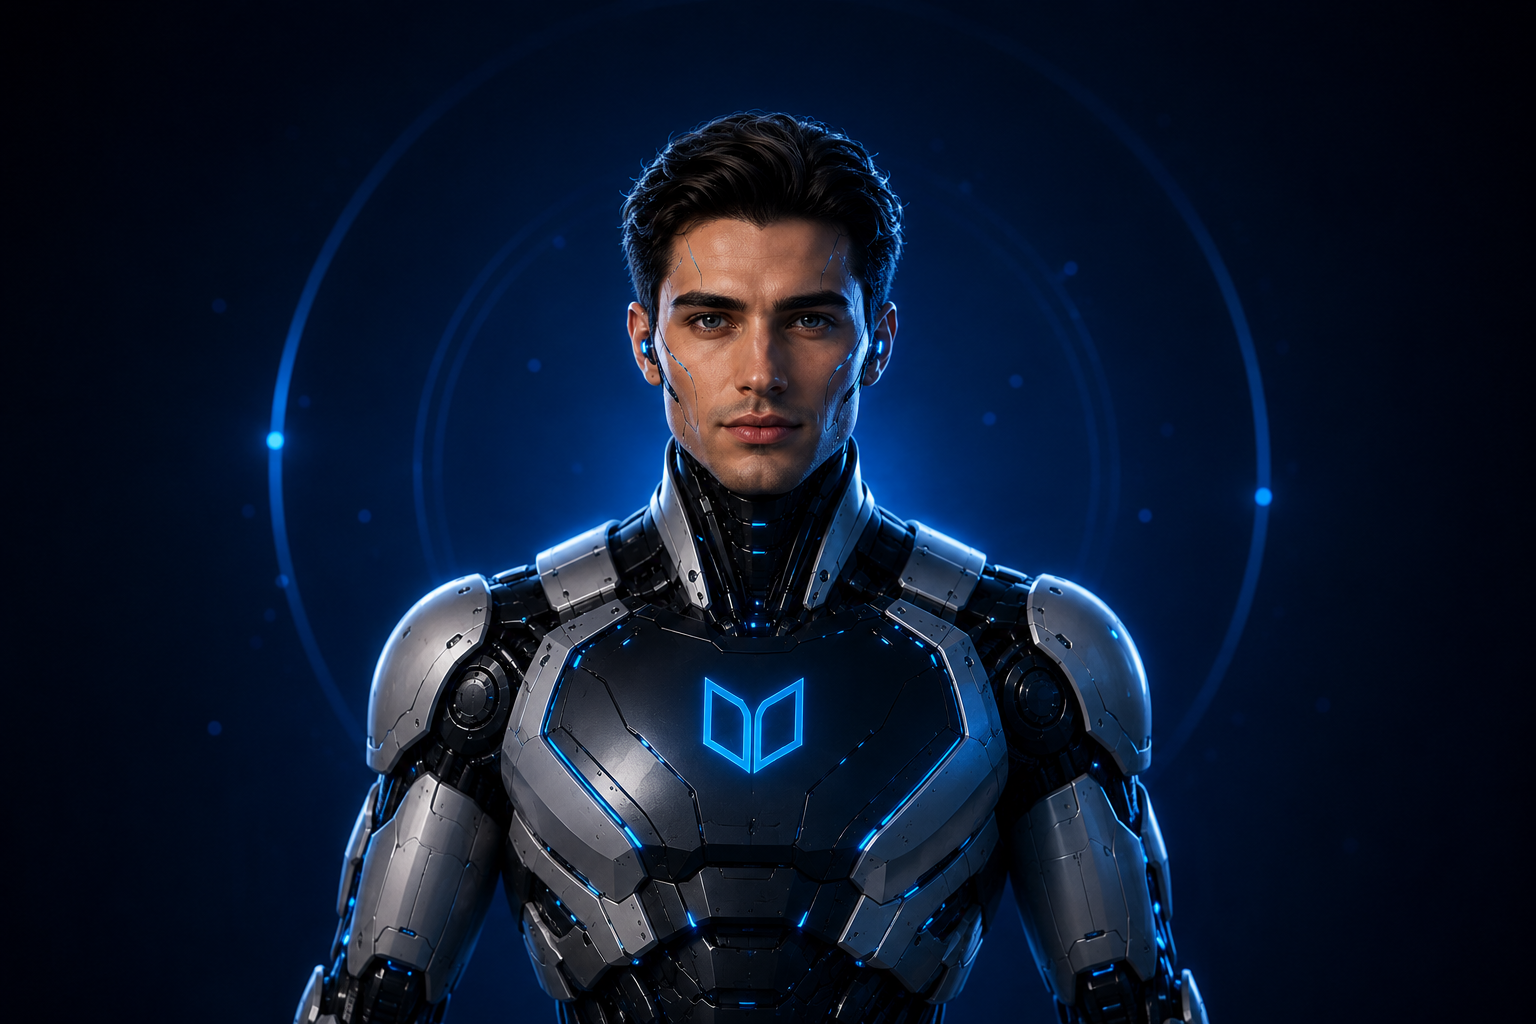
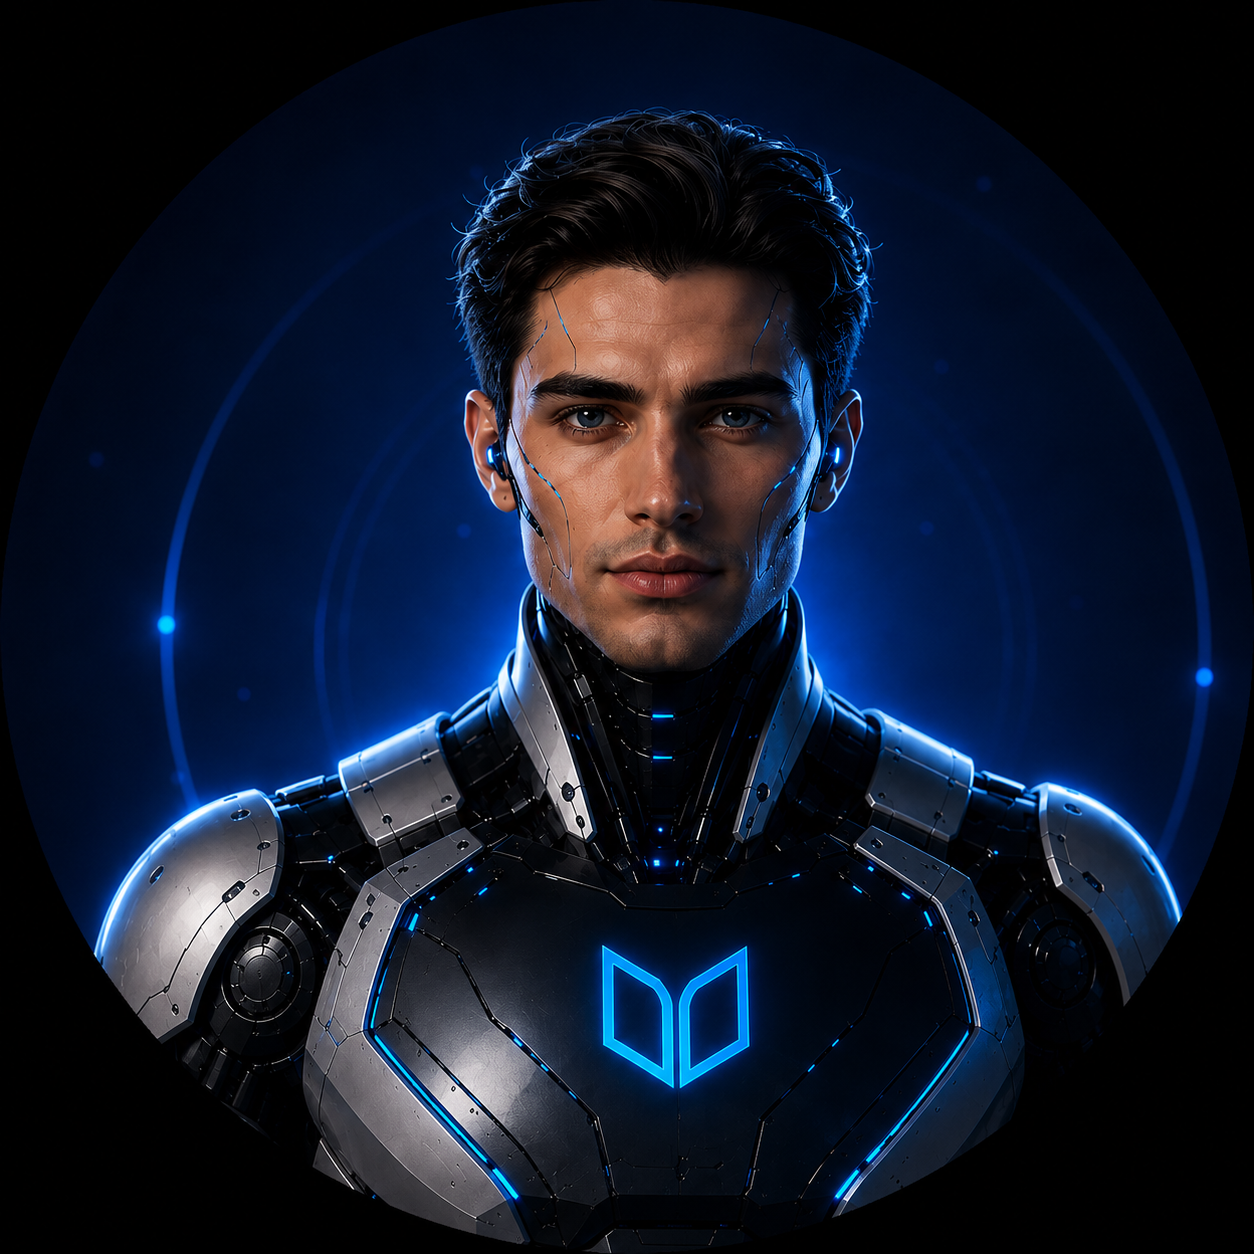
fix zyron img

diff --git a/frontend/src/data/teachers.ts b/frontend/src/data/teachers.ts
@@ -33,6 +33,6 @@ export const teachers = [
   name: "Stephanie",
   role: "Professional business English teacher",
   accent: "Daily conversation",
-  image: "/teachers/Stephanie.png",
+  image: "/teachers/stephanie.png",
 },
 ];